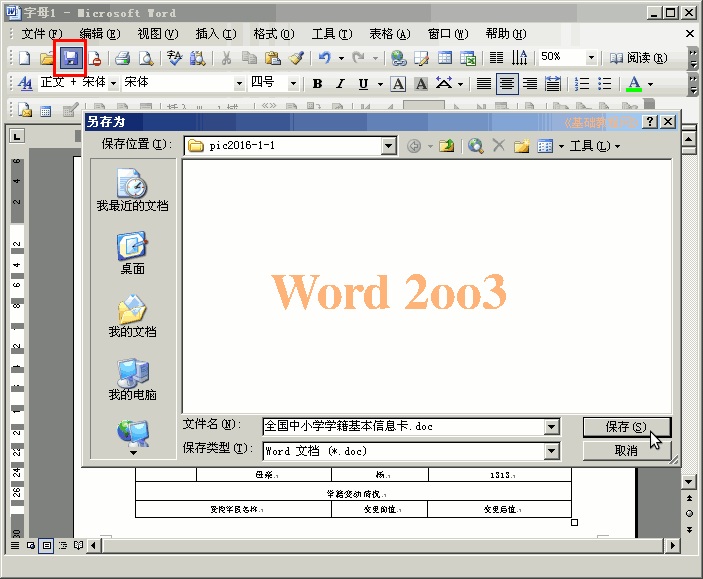
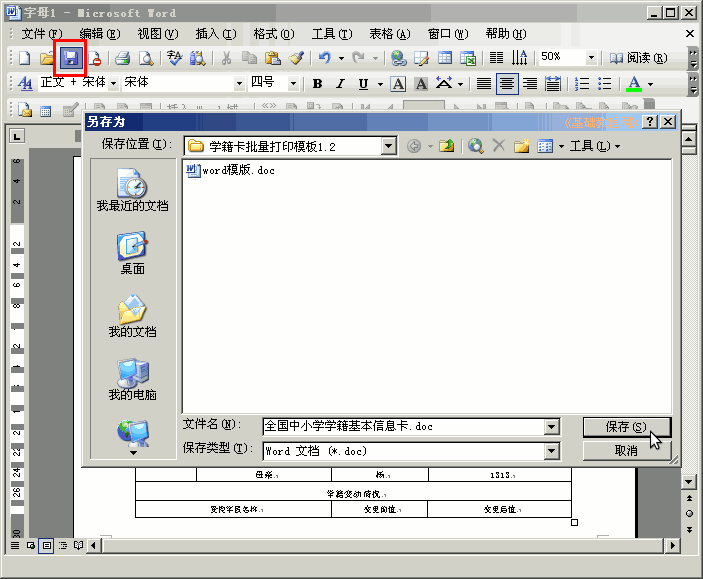
2016年 10月 23日 星期日 17:02:08 CST

Changed region(s): [[0.3883, 0.4663, 0.7169, 0.5596], [0.2688, 0.2487, 0.4481, 0.3109]]

diff --git a/mix/Texj/lesson32/lesson32.html b/mix/Texj/lesson32/lesson32.html
@@ -20,13 +20,13 @@
 <span class="tblue">三十二、批量打印学籍卡</span>　<a href="../index.html">返回目录</a>　<a href="../lesson32/lesson32.html">下一课</a>
 <p>　批量打印利用word中的邮件合并功能，将系统导出的在校生信息合并到模板里；</p>
 <p class="tblue">　1、准备工作</p>
-<p>　1）首先做好准备工作，下载<a href="images/%E5%AD%A6%E7%B1%8D%E5%8D%A1%E6%89%B9%E9%87%8F%E6%89%93%E5%8D%B0%E6%A8%A1%E6%9D%BF1.2.7z">批量打印模板</a>，解压到桌面或其他位置；</p>
+<p>　1）首先做好准备工作，下载<a href="images/%E5%AD%A6%E7%B1%8D%E5%8D%A1%E6%89%B9%E9%87%8F%E6%89%93%E5%8D%B0%E6%A8%A1%E6%9D%BF1.2.7z">批量打印模板</a>，解压到桌面或其他位置，所有文件都存放到这个文件夹里面；</p>
 <p>　<img src="images/a0odt.png" alt="a0odt.png" /></p>
 <p>　</p>
 <p>　2）word2010里点菜单“文件，选项”，点“信任中心，信任中心设置”里，选择“禁用无数字签名的所有宏”；</p>
 <p>　<img src="images/a0maco1.png" alt="a0maco1.png" />　<img src="images/a0maco2.png" alt="a0maco2.png" /></p>
 <p>　</p>
-<p>　3）将学生照片文件夹，也存放到桌面上备用，照片文件名是学生的身份证号；</p>
+<p>　3）将学生照片文件，也都存放到模板文件夹里备用，照片文件名是学生的身份证号；</p>
 <p>　<img src="images/a0pic.png" alt="a0pic.png" /></p>
 <p>　</p>
 <p class="tblue">　2、批量打印学籍卡片</p>
@@ -46,13 +46,13 @@
 <p>　5）然后点邮件工具栏上的倒数第四个“合并到新文档”，word2010点“邮件”，最后的“完成并合并、编辑单个文档”；</p>
 <p>　<img src="images/a6email.png" alt="a6email.png" /></p>
 <p>　<img src="images/a6email1.png" alt="a6email1.png" /></p>
-<p>　6）出来的数量对话框直接点“确定”，也可以输入前面表格里的人数；</p>
+<p>　6）出来的数量对话框输入人数，然后点确定；</p>
 <p>　<img src="images/a7num.png" alt="a7num.png" /></p>
 <p>　</p>
-<p>　7）点保存按钮，出来的对话框里，保存到放学生照片的文件夹里，word2010注意文件类型选“word97-2003 文档”的doc格式；</p>
+<p>　7）点保存按钮，出来的对话框里，保存到模板所在的文件夹里，doc或docx格式都可以；</p>
 <p>　<img src="images/a8save.png" alt="a8save.png" /></p>
-<p>　<img src="images/a8save1.png" alt="a8save1.png" /></p>
-<p>　8）点“选择-全选”或者按Ctrl+A也可以，然后找到键盘最上边按F9更新域，学生照片就出来了，没有身份证号的学生，单独插入图片；</p>
+<p>　</p>
+<p>　8）点“选择-全选”或者按Ctrl+A也可以，然后找到键盘最上边，按F9更新域，学生照片就出来了，没有身份证号的学生，单独插入图片；</p>
 <p>　<img src="images/a9all.png" alt="a9all.png" />　<img src="images/a10f9.png" alt="a10f9.png" /></p>
 <p>　</p>
 <p>　9）保存文件，即可打印所有的学生学籍卡片；</p>
